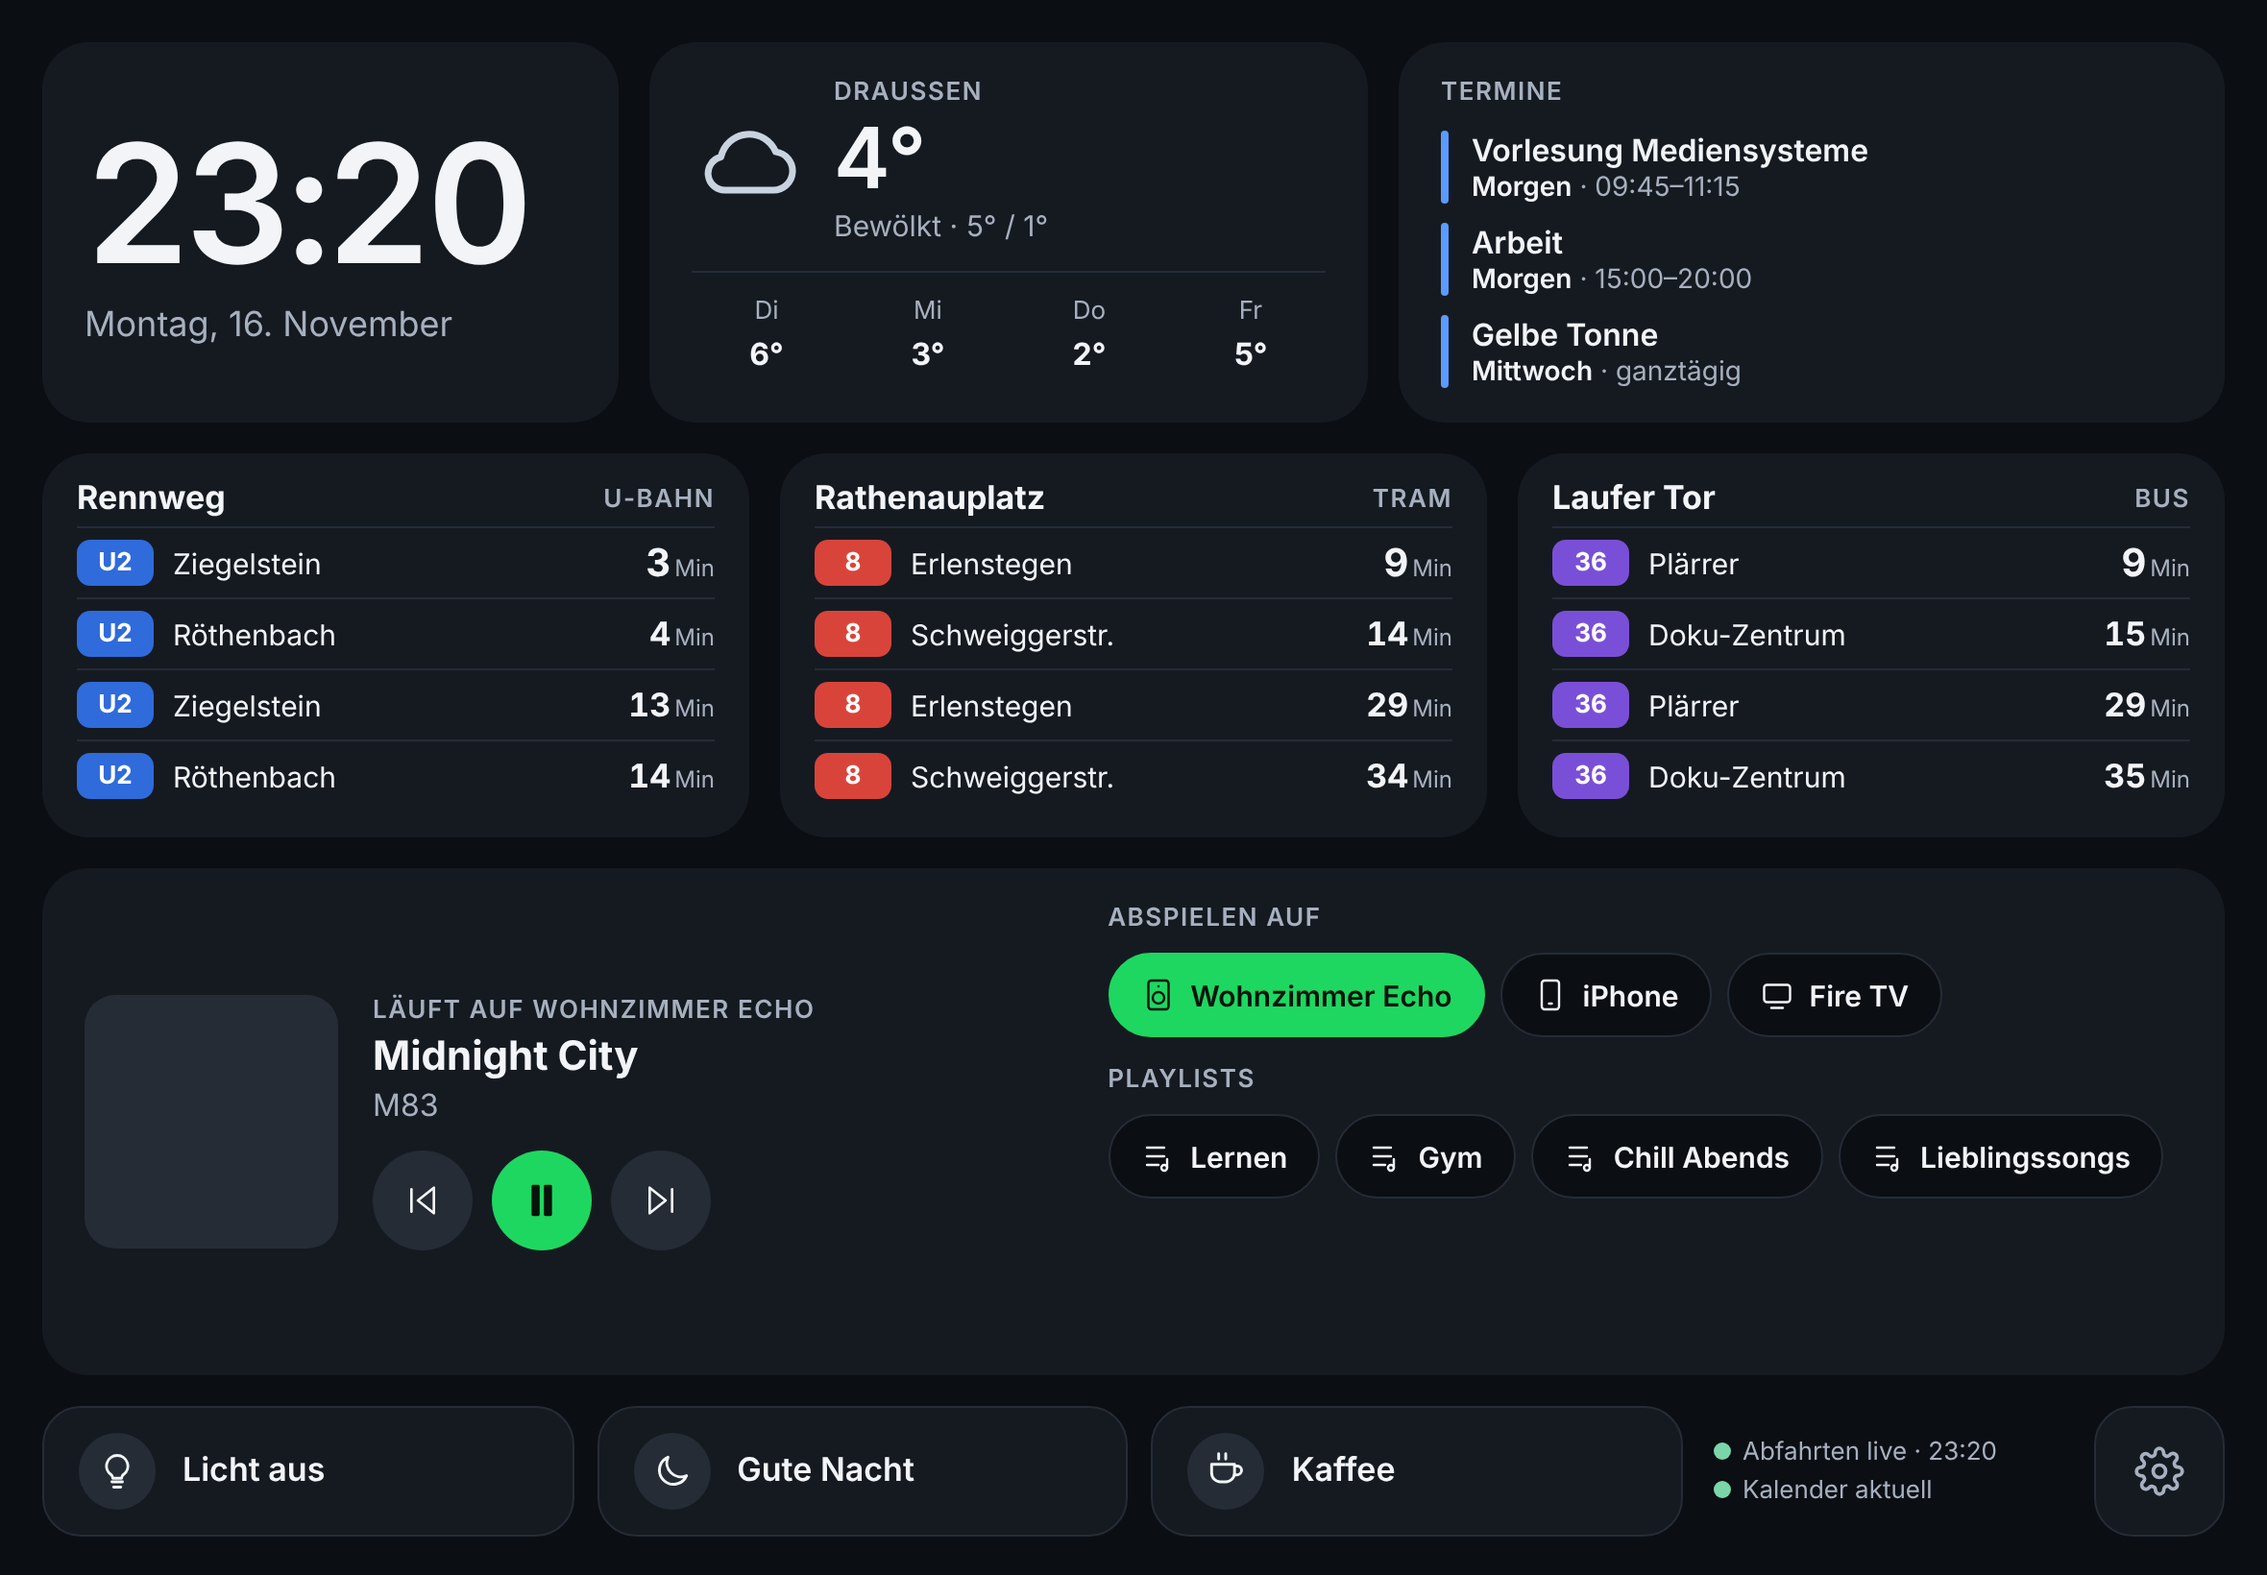
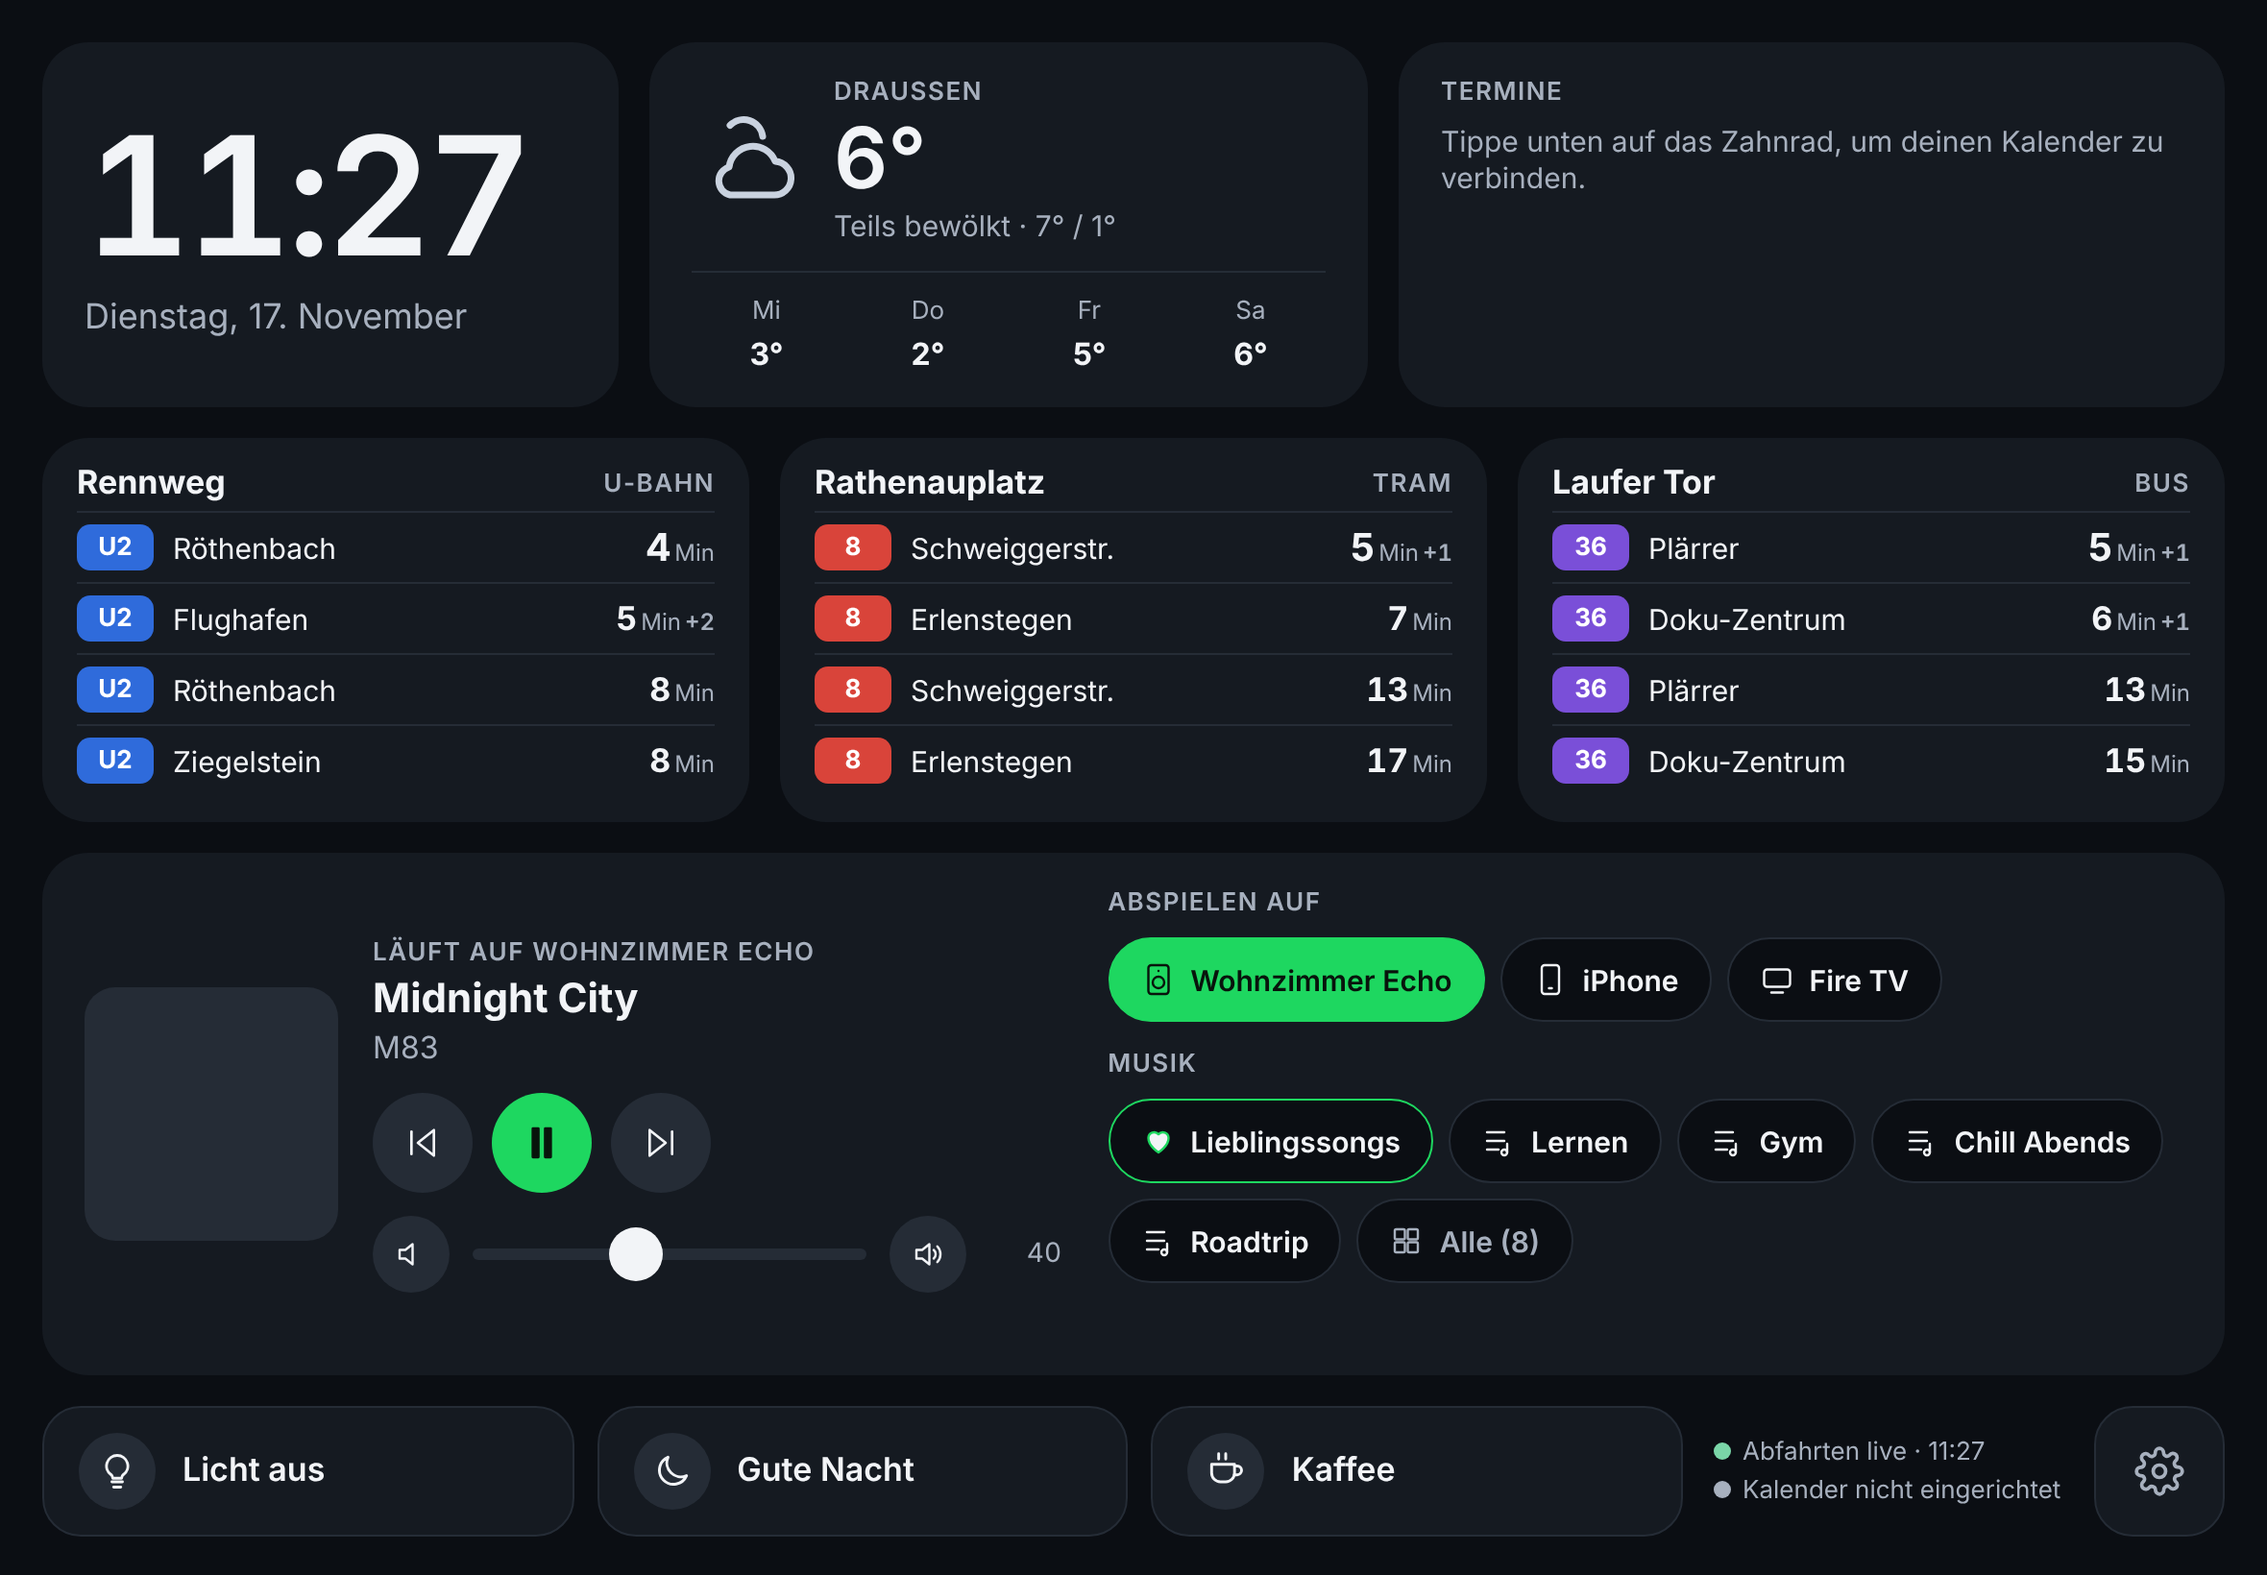
Spotify: Lautstärke, Lieblingssongs und Auswahl aller Playlists
Claude-Session: https://claude.ai/code/session_01EWuShQXMaAuaMKxCiu4vsd

diff --git a/index.html b/index.html
@@ -77,6 +77,18 @@
   .chip { height: 44px; padding: 0 16px; border-radius: 22px; border: 1px solid var(--line); background: var(--bg); color: var(--text); font-size: 15px; font-weight: 600; display: flex; align-items: center; gap: 8px; cursor: pointer; max-width: 100%; }
   .chip span { white-space: nowrap; overflow: hidden; text-overflow: ellipsis; }
   .chip.on { background: #1ED760; color: #08140C; border-color: #1ED760; }
+  .vol { display: flex; align-items: center; gap: 10px; margin-top: 12px; }
+  .vol input[type=range] { flex: 1; -webkit-appearance: none; appearance: none; height: 6px; border-radius: 3px; background: var(--line); outline: none; }
+  .vol input[type=range]::-webkit-slider-thumb { -webkit-appearance: none; width: 28px; height: 28px; border-radius: 14px; background: var(--text); border: none; }
+  .vol .vbtn { width: 40px; height: 40px; border-radius: 20px; border: none; background: var(--line); color: var(--text); display: flex; align-items: center; justify-content: center; cursor: pointer; flex-shrink: 0; }
+  .vol .vnum { width: 40px; text-align: right; font-size: 14px; color: var(--muted); font-variant-numeric: tabular-nums; }
+  .chip.liked { border-color: #1ED760; }
+  .chip.more { color: var(--muted); }
+  .pl-grid { display: grid; grid-template-columns: repeat(auto-fill, minmax(150px, 1fr)); gap: 14px; }
+  .pl { border: none; background: var(--bg); color: var(--text); border-radius: 16px; padding: 10px; text-align: left; cursor: pointer; font-family: inherit; }
+  .pl img, .pl .ph { width: 100%; aspect-ratio: 1; border-radius: 10px; object-fit: cover; background: var(--line); display: flex; align-items: center; justify-content: center; }
+  .pl span { display: block; font-size: 15px; font-weight: 600; margin-top: 8px; white-space: nowrap; overflow: hidden; text-overflow: ellipsis; }
+  .pl small { display: block; font-size: 13px; color: var(--muted); margin-top: 2px; }
   .spbtn { height: 48px; padding: 0 20px; border-radius: 24px; border: none; background: #1ED760; color: #08140C; font-size: 16px; font-weight: 700; cursor: pointer; }
 
   /* Reihe 3: Kurzbefehle */
@@ -177,6 +189,16 @@
       <button type="submit" class="btn primary" value="save" id="saveBtn">Speichern</button>
     </div>
   </form>
+</dialog>
+
+<dialog id="spLists">
+  <div class="dlg">
+    <div style="display:flex;justify-content:space-between;align-items:center">
+      <h3>Was soll laufen?</h3>
+      <button type="button" class="btn" id="spListsClose">Schließen</button>
+    </div>
+    <div class="pl-grid" id="spListsGrid"></div>
+  </div>
 </dialog>
 
 <script>
@@ -451,7 +473,7 @@ $('settings').addEventListener('close', () => {
 
 /* ---------- Spotify (Web API, Login per PKCE – kein Server nötig) ---------- */
 const SP_REDIRECT = location.origin + location.pathname;
-const SP_SCOPES = 'user-read-playback-state user-modify-playback-state user-read-currently-playing playlist-read-private';
+const SP_SCOPES = 'user-read-playback-state user-modify-playback-state user-read-currently-playing playlist-read-private user-library-read';
 const SP_ICON = {
   prev: '<path d="M19 20 9 12l10-8z"/><path d="M5 19V5"/>',
   next: '<path d="m5 4 10 8-10 8z"/><path d="M19 5v14"/>',
@@ -462,10 +484,16 @@ const SP_ICON = {
   computer: '<rect x="2" y="4" width="20" height="13" rx="2"/><path d="M8 21h8M12 17v4"/>',
   tv: '<rect x="3" y="5" width="18" height="12" rx="2"/><path d="M8 21h8"/>',
   list: '<path d="M4 6h12M4 12h12M4 18h8"/><path d="M18 14v6"/><circle cx="16" cy="20" r="2"/>',
+  heart: '<path d="M12 20s-7-4.4-7-10a4 4 0 0 1 7-2.6A4 4 0 0 1 19 10c0 5.6-7 10-7 10z" fill="currentColor"/>',
+  grid: '<rect x="4" y="4" width="7" height="7" rx="1"/><rect x="13" y="4" width="7" height="7" rx="1"/><rect x="4" y="13" width="7" height="7" rx="1"/><rect x="13" y="13" width="7" height="7" rx="1"/>',
+  volLow: '<path d="M4 9h4l5-4v14l-5-4H4z"/>',
+  volHigh: '<path d="M4 9h4l5-4v14l-5-4H4z"/><path d="M16 9a4 4 0 0 1 0 6M18.5 6.5a8 8 0 0 1 0 11"/>',
 };
 
 const sp = {
   tokens: null, player: null, devices: [], playlists: [], error: '', selectedDevice: null,
+  volDragging: false, volPending: null, volTimer: null,
+  needsRelogin() { return !!this.tokens && !(this.tokens.scope || '').includes('user-library-read'); },
 
   loadTokens() { try { this.tokens = JSON.parse(localStorage.getItem('dash.spotify') || 'null'); } catch (e) { this.tokens = null; } },
   saveTokens() { try { localStorage.setItem('dash.spotify', JSON.stringify(this.tokens)); } catch (e) {} },
@@ -494,6 +522,7 @@ const sp = {
     this.tokens = {
       access: j.access_token,
       refresh: j.refresh_token || this.tokens?.refresh,
+      scope: j.scope || this.tokens?.scope || '',
       exp: Date.now() + (j.expires_in - 60) * 1000,
     };
     this.saveTokens();
@@ -538,6 +567,7 @@ const sp = {
     try {
       const [player, dev] = await Promise.all([this.api('/me/player'), this.api('/me/player/devices')]);
       this.player = player;
+      if (this.volPending !== null && player?.device) player.device.volume_percent = this.volPending;
       this.devices = dev?.devices || [];
       if (player?.device?.id) this.selectedDevice = player.device.id;
       if (!this.devices.find((d) => d.id === this.selectedDevice)) this.selectedDevice = this.devices[0]?.id || null;
@@ -548,7 +578,7 @@ const sp = {
 
   async refreshPlaylists() {
     if (!this.tokens) return;
-    try { this.playlists = (await this.api('/me/playlists?limit=8'))?.items?.filter(Boolean) || []; }
+    try { this.playlists = (await this.api('/me/playlists?limit=50'))?.items?.filter(Boolean) || []; }
     catch (e) { this.playlists = []; }
     renderMusic();
   },
@@ -575,6 +605,28 @@ const sp = {
     const dev = this.selectedDevice ? '?device_id=' + this.selectedDevice : '';
     return this.act(() => this.api('/me/player/play' + dev, { method: 'PUT', body: JSON.stringify({ context_uri: uri }) }));
   },
+  playLiked() {
+    if (this.needsRelogin()) { this.error = 'Für Lieblingssongs einmal neu mit Spotify verbinden (Zahnrad → Spotify trennen → verbinden)'; renderMusic(); return; }
+    const dev = this.selectedDevice ? '?device_id=' + this.selectedDevice : '';
+    return this.act(async () => {
+      const pages = await Promise.all([0, 50].map((o) => this.api('/me/tracks?limit=50&offset=' + o).catch(() => null)));
+      const uris = pages.flatMap((pg) => pg?.items || []).map((it) => it.track?.uri).filter(Boolean);
+      if (!uris.length) throw new Error('Keine Lieblingssongs gefunden');
+      for (let i = uris.length - 1; i > 0; i--) { const j = Math.floor(Math.random() * (i + 1)); [uris[i], uris[j]] = [uris[j], uris[i]]; }
+      await this.api('/me/player/play' + dev, { method: 'PUT', body: JSON.stringify({ uris }) });
+    });
+  },
+  setVolume(v) {
+    v = Math.max(0, Math.min(100, Math.round(v)));
+    this.volPending = v;
+    if (this.player?.device) this.player.device.volume_percent = v;
+    clearTimeout(this.volTimer);
+    this.volTimer = setTimeout(() => {
+      const dev = this.player?.device?.id ? '&device_id=' + this.player.device.id : '';
+      this.act(() => this.api('/me/player/volume?volume_percent=' + v + dev, { method: 'PUT' }))
+        .finally(() => { setTimeout(() => { this.volPending = null; }, 2500); });
+    }, 250);
+  },
 };
 
 function devIcon(type) {
@@ -586,6 +638,7 @@ function devIcon(type) {
 }
 
 function renderMusic() {
+  if (sp.volDragging) return;
   const box = $('music');
   if (!settings.spClient || !sp.tokens) {
     box.innerHTML = `
@@ -607,8 +660,19 @@ function renderMusic() {
   const devName = sp.player?.device?.name;
   const devices = sp.devices.map((d) => `
     <button type="button" class="chip ${d.id === sp.selectedDevice ? 'on' : ''}" data-sp="dev" data-id="${esc(d.id)}">${svg(devIcon(d.type), 18)}<span>${esc(d.name)}</span></button>`).join('');
-  const lists = sp.playlists.slice(0, 6).map((p) => `
-    <button type="button" class="chip" data-sp="list" data-uri="${esc(p.uri)}">${svg(SP_ICON.list, 18)}<span>${esc(p.name)}</span></button>`).join('');
+  const lists = `<button type="button" class="chip liked" data-sp="liked">${svg(SP_ICON.heart, 18, '#1ED760')}<span>Lieblingssongs</span></button>` +
+    sp.playlists.slice(0, 4).map((p) => `
+    <button type="button" class="chip" data-sp="list" data-uri="${esc(p.uri)}">${svg(SP_ICON.list, 18)}<span>${esc(p.name)}</span></button>`).join('') +
+    `<button type="button" class="chip more" data-sp="all">${svg(SP_ICON.grid, 18)}<span>Alle${sp.playlists.length ? ' (' + sp.playlists.length + ')' : ''}</span></button>`;
+  const dv = sp.player?.device;
+  const volOk = dv && dv.supports_volume !== false && typeof dv.volume_percent === 'number';
+  const vol = volOk ? `
+        <div class="vol">
+          <button type="button" class="vbtn" data-sp="voldown" aria-label="Leiser">${svg(SP_ICON.volLow, 18)}</button>
+          <input type="range" id="spVol" min="0" max="100" step="1" value="${dv.volume_percent}" aria-label="Lautstärke">
+          <button type="button" class="vbtn" data-sp="volup" aria-label="Lauter">${svg(SP_ICON.volHigh, 18)}</button>
+          <span class="vnum" id="spVolNum">${dv.volume_percent}</span>
+        </div>` : (dv ? `<div class="hint" style="margin-top:10px">Lautstärke lässt sich auf ${esc(dv.name)} nicht per Spotify regeln.</div>` : '');
   box.innerHTML = `
     <div class="np">
       ${img ? `<img class="cover" src="${esc(img)}" alt="">` : `<div class="cover"></div>`}
@@ -621,13 +685,15 @@ function renderMusic() {
           <button type="button" class="cbtn main" data-sp="play" aria-label="${playing ? 'Pause' : 'Abspielen'}">${svg(playing ? SP_ICON.pause : SP_ICON.play, 22)}</button>
           <button type="button" class="cbtn" data-sp="next" aria-label="Weiter">${svg(SP_ICON.next, 20)}</button>
         </div>
+        ${vol}
       </div>
     </div>
     <div class="music-side">
       <div class="label">Abspielen auf</div>
       <div class="chips">${devices || '<div class="empty" style="padding:0">Keine Geräte gefunden – öffne Spotify auf dem Gerät oder weck den Lautsprecher auf.</div>'}</div>
-      <div class="label" style="margin-top:4px">Playlists</div>
-      <div class="chips">${lists || '<div class="empty" style="padding:0">Keine Playlists</div>'}</div>
+      <div class="label" style="margin-top:4px">Musik</div>
+      <div class="chips">${lists}</div>
+      ${sp.needsRelogin() ? `<div class="hint" style="margin:0">Neu: Lieblingssongs brauchen eine neue Freigabe. <button type="button" class="chip" style="display:inline-flex;height:36px;margin-left:6px" data-sp="relogin"><span>Neu verbinden</span></button></div>` : ''}
       ${sp.error ? `<div class="hint" style="color:var(--orange);margin:0">${esc(sp.error)}</div>` : ''}
     </div>`;
 }
@@ -641,8 +707,37 @@ document.addEventListener('click', (e) => {
   else if (a === 'next') sp.next();
   else if (a === 'prev') sp.prev();
   else if (a === 'dev') sp.transfer(b.dataset.id);
-  else if (a === 'list') sp.playList(b.dataset.uri);
+  else if (a === 'list') { sp.playList(b.dataset.uri); if ($('spLists').open) $('spLists').close(); }
+  else if (a === 'liked') { sp.playLiked(); if ($('spLists').open) $('spLists').close(); }
+  else if (a === 'all') openPlaylists();
+  else if (a === 'relogin') { sp.clearTokens(); sp.login(); }
+  else if (a === 'volup') { sp.setVolume((sp.player?.device?.volume_percent ?? 50) + 10); renderMusic(); }
+  else if (a === 'voldown') { sp.setVolume((sp.player?.device?.volume_percent ?? 50) - 10); renderMusic(); }
 });
+
+// Lautstärke-Regler: während des Ziehens nicht neu zeichnen
+document.addEventListener('pointerdown', (e) => { if (e.target.id === 'spVol') sp.volDragging = true; });
+document.addEventListener('input', (e) => {
+  if (e.target.id !== 'spVol') return;
+  sp.volDragging = true;
+  $('spVolNum').textContent = e.target.value;
+  sp.setVolume(Number(e.target.value));
+});
+['pointerup', 'pointercancel', 'change'].forEach((ev) => document.addEventListener(ev, (e) => {
+  if (e.target.id === 'spVol' || ev !== 'change') { if (sp.volDragging) { sp.volDragging = false; setTimeout(renderMusic, 50); } }
+}));
+
+function openPlaylists() {
+  const grid = $('spListsGrid');
+  const liked = `<button type="button" class="pl" data-sp="liked"><div class="ph" style="background:linear-gradient(135deg,#4B2BD6,#9AE6C0)">${svg(SP_ICON.heart, 48, '#fff')}</div><span>Lieblingssongs</span><small>Zufällig gemischt</small></button>`;
+  grid.innerHTML = liked + sp.playlists.map((p) => {
+    const img = p.images?.[0]?.url;
+    const count = p.tracks?.total ?? p.items?.total;
+    return `<button type="button" class="pl" data-sp="list" data-uri="${esc(p.uri)}">${img ? `<img src="${esc(img)}" alt="">` : `<div class="ph">${svg(SP_ICON.list, 40)}</div>`}<span>${esc(p.name)}</span><small>${count != null ? count + ' Songs' : 'Playlist'}</small></button>`;
+  }).join('');
+  $('spLists').showModal();
+}
+$('spListsClose').addEventListener('click', () => $('spLists').close());
 $('spLogout').addEventListener('click', () => { sp.clearTokens(); renderMusic(); });
 
 (async () => {
